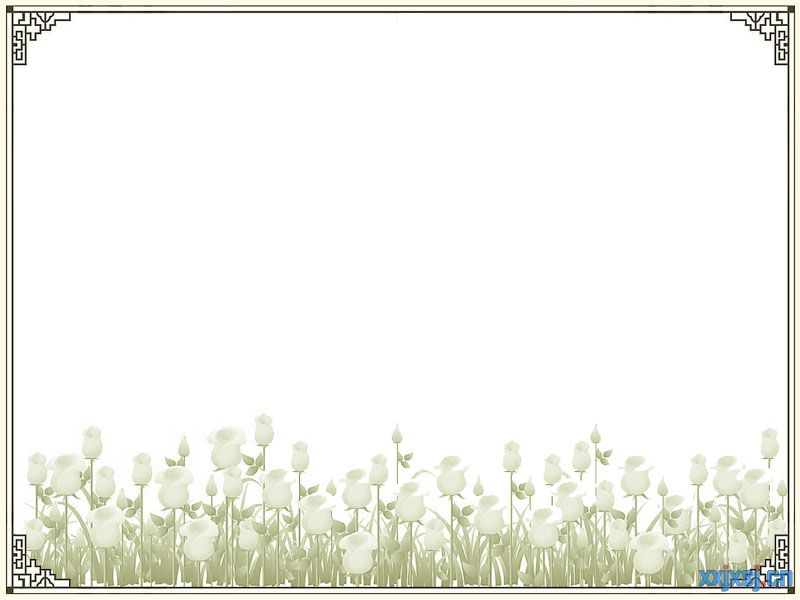
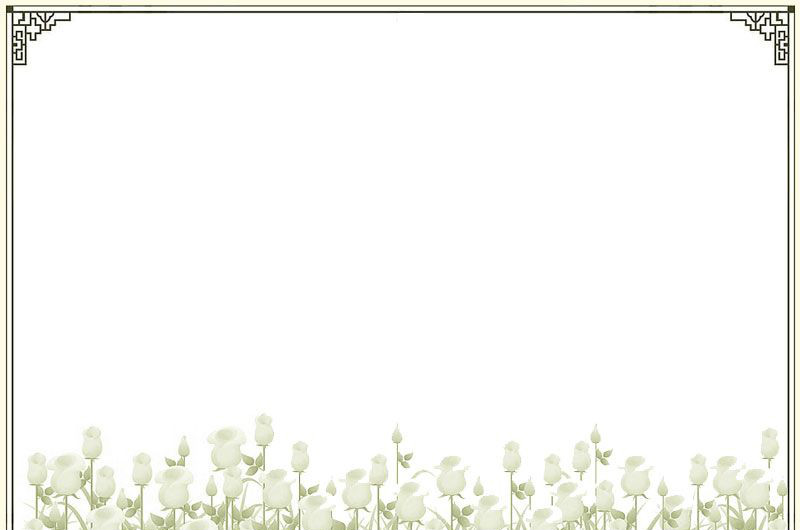
1

Changed region(s): [[0.0, 0.6943, 1.0, 1.0], [0.0, 0.0, 1.0, 0.1208]]

diff --git a/chatLine/src/main/webapp/assets/css/lanrenzhijia.css b/chatLine/src/main/webapp/assets/css/lanrenzhijia.css
@@ -41,9 +41,8 @@ body {}
 	background: white;
 	border-radius: 5px;
 	box-shadow: 0 9px 3px 2px #666;
-	overflow: auto;
 	background-image: url(../images/bk1.jpg);
-	background-size: cover;
+	background-size: 100% 100%;
 }
 
 #drag .title {
